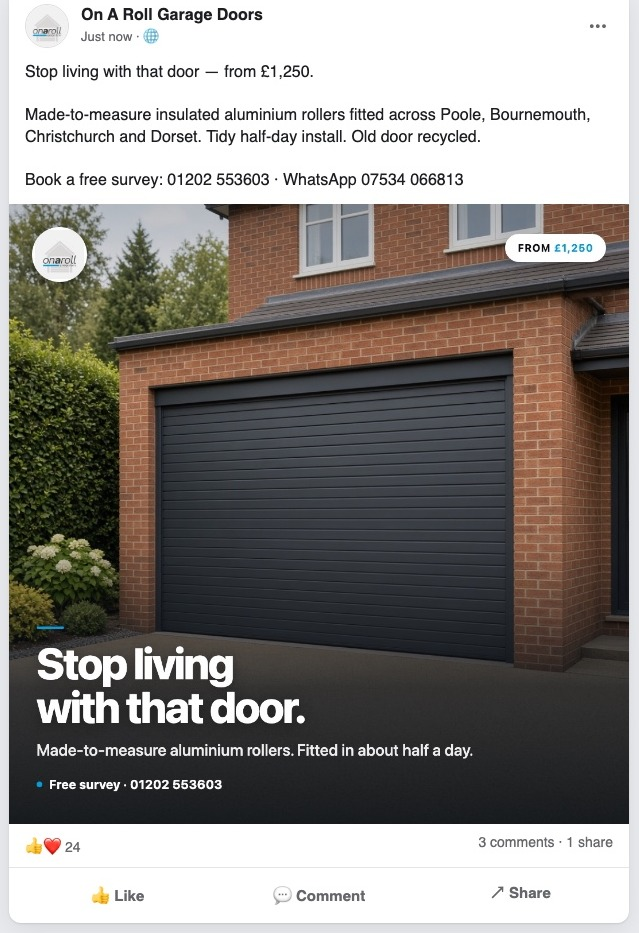
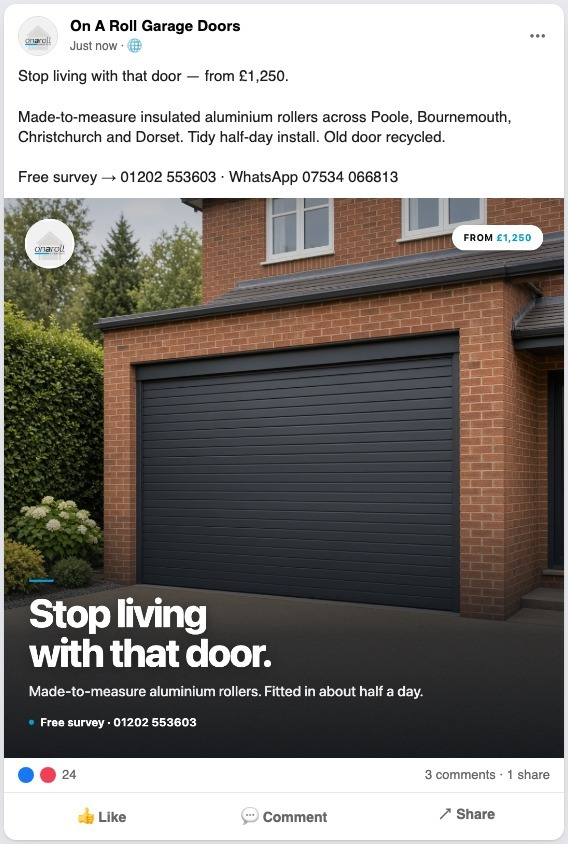
Fix Facebook mocks to include full post chrome

diff --git a/APPROVAL-BOARD.html b/APPROVAL-BOARD.html
@@ -49,7 +49,7 @@
     <h2 class="section">1 · Branded creatives (what we post as the image)</h2>
     <div class="grid grid-3">
       <div class="card">
-        <img src="OAR-SM-001.jpg?v=modern1" alt="Stop living with that door" />
+        <img src="OAR-SM-001.jpg?v=modern2" alt="Stop living with that door" />
         <div class="pad">
           <div class="id">OAR-SM-001 · Mon</div>
           <h3>Stop living with that door.</h3>
@@ -57,7 +57,7 @@
         </div>
       </div>
       <div class="card">
-        <img src="OAR-SM-002.jpg?v=modern1" alt="Your garage is an open invite" />
+        <img src="OAR-SM-002.jpg?v=modern2" alt="Your garage is an open invite" />
         <div class="pad">
           <div class="id">OAR-SM-002 · Wed</div>
           <h3>Your garage is an open invite.</h3>
@@ -65,7 +65,7 @@
         </div>
       </div>
       <div class="card">
-        <img src="OAR-SM-003.jpg?v=modern1" alt="Don’t overpay for a garage door" />
+        <img src="OAR-SM-003.jpg?v=modern2" alt="Don’t overpay for a garage door" />
         <div class="pad">
           <div class="id">OAR-SM-003 · Fri</div>
           <h3>Don’t overpay for a garage door.</h3>
@@ -77,15 +77,15 @@
     <h2 class="section">2 · Facebook feed simulation</h2>
     <div class="fb-grid">
       <div class="fb-card">
-        <img src="FB-MOCK-001.jpg?v=modern1" alt="Facebook mock post 1" />
+        <img src="FB-MOCK-001.jpg?v=modern2" alt="Facebook mock post 1" />
         <p>How OAR-SM-001 should look on Facebook</p>
       </div>
       <div class="fb-card">
-        <img src="FB-MOCK-002.jpg?v=modern1" alt="Facebook mock post 2" />
+        <img src="FB-MOCK-002.jpg?v=modern2" alt="Facebook mock post 2" />
         <p>How OAR-SM-002 should look on Facebook</p>
       </div>
       <div class="fb-card">
-        <img src="FB-MOCK-003.jpg?v=modern1" alt="Facebook mock post 3" />
+        <img src="FB-MOCK-003.jpg?v=modern2" alt="Facebook mock post 3" />
         <p>How OAR-SM-003 should look on Facebook</p>
       </div>
     </div>

diff --git a/index.html b/index.html
@@ -49,7 +49,7 @@
     <h2 class="section">1 · Branded creatives (what we post as the image)</h2>
     <div class="grid grid-3">
       <div class="card">
-        <img src="OAR-SM-001.jpg?v=modern1" alt="Stop living with that door" />
+        <img src="OAR-SM-001.jpg?v=modern2" alt="Stop living with that door" />
         <div class="pad">
           <div class="id">OAR-SM-001 · Mon</div>
           <h3>Stop living with that door.</h3>
@@ -57,7 +57,7 @@
         </div>
       </div>
       <div class="card">
-        <img src="OAR-SM-002.jpg?v=modern1" alt="Your garage is an open invite" />
+        <img src="OAR-SM-002.jpg?v=modern2" alt="Your garage is an open invite" />
         <div class="pad">
           <div class="id">OAR-SM-002 · Wed</div>
           <h3>Your garage is an open invite.</h3>
@@ -65,7 +65,7 @@
         </div>
       </div>
       <div class="card">
-        <img src="OAR-SM-003.jpg?v=modern1" alt="Don’t overpay for a garage door" />
+        <img src="OAR-SM-003.jpg?v=modern2" alt="Don’t overpay for a garage door" />
         <div class="pad">
           <div class="id">OAR-SM-003 · Fri</div>
           <h3>Don’t overpay for a garage door.</h3>
@@ -77,15 +77,15 @@
     <h2 class="section">2 · Facebook feed simulation</h2>
     <div class="fb-grid">
       <div class="fb-card">
-        <img src="FB-MOCK-001.jpg?v=modern1" alt="Facebook mock post 1" />
+        <img src="FB-MOCK-001.jpg?v=modern2" alt="Facebook mock post 1" />
         <p>How OAR-SM-001 should look on Facebook</p>
       </div>
       <div class="fb-card">
-        <img src="FB-MOCK-002.jpg?v=modern1" alt="Facebook mock post 2" />
+        <img src="FB-MOCK-002.jpg?v=modern2" alt="Facebook mock post 2" />
         <p>How OAR-SM-002 should look on Facebook</p>
       </div>
       <div class="fb-card">
-        <img src="FB-MOCK-003.jpg?v=modern1" alt="Facebook mock post 3" />
+        <img src="FB-MOCK-003.jpg?v=modern2" alt="Facebook mock post 3" />
         <p>How OAR-SM-003 should look on Facebook</p>
       </div>
     </div>
